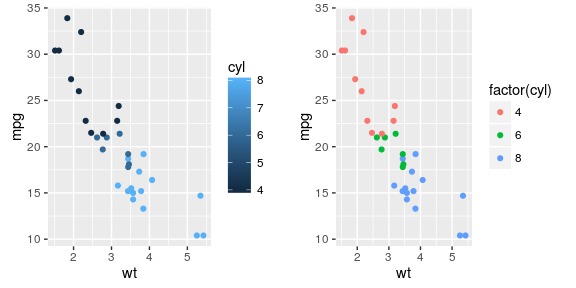
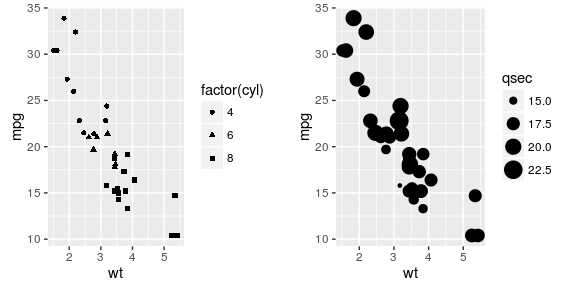
first try

diff --git a/ggplot_practice.md b/ggplot_practice.md
@@ -54,24 +54,12 @@ ggplot practice
 ![](ggplot_practice_files/figure-markdown_strict/unnamed-chunk-3-3.png)  
 
     library(gridExtra)
-    head(mtcars,3)
-
-    ##                mpg cyl disp  hp drat    wt  qsec vs am gear carb
-    ## Mazda RX4     21.0   6  160 110 3.90 2.620 16.46  0  1    4    4
-    ## Mazda RX4 Wag 21.0   6  160 110 3.90 2.875 17.02  0  1    4    4
-    ## Datsun 710    22.8   4  108  93 3.85 2.320 18.61  1  1    4    1
-
-    p1=qplot(wt,mpg,data=mtcars,colour=cyl)
-    levels(mtcars$cyl)
-
-    ## NULL
-
-    p2=qplot(wt,mpg,data=mtcars,colour=factor(cyl))
+    p1=qplot(wt, mpg, data=mtcars, shape=factor(cyl))
+    p2=qplot(wt, mpg, data=mtcars, size=qsec)
     grid.arrange(p1,p2,ncol=2)
 
 ![](ggplot_practice_files/figure-markdown_strict/unnamed-chunk-4-1.png)  
 
-    library(gridExtra)
     head(mtcars,3)
 
     ##                mpg cyl disp  hp drat    wt  qsec vs am gear carb
@@ -89,20 +77,38 @@ ggplot practice
 
 ![](ggplot_practice_files/figure-markdown_strict/unnamed-chunk-5-1.png)  
 
-    library(gridExtra)
-    head(mtcars,3)
+    p1=qplot(wt, mpg, data=mtcars, size=qsec, color=factor(carb))
+    p2=qplot(wt, mpg, data=mtcars, size=qsec, color=factor(carb), shape=I(1))
+    p3=qplot(wt, mpg, data=mtcars, size=qsec, shape=factor(cyl), geom="point")
+    p4=qplot(wt, mpg, data=mtcars, size=factor(cyl), geom="point")
+    grid.arrange(p1,p2,ncol=2)
 
-    ##                mpg cyl disp  hp drat    wt  qsec vs am gear carb
-    ## Mazda RX4     21.0   6  160 110 3.90 2.620 16.46  0  1    4    4
-    ## Mazda RX4 Wag 21.0   6  160 110 3.90 2.875 17.02  0  1    4    4
-    ## Datsun 710    22.8   4  108  93 3.85 2.320 18.61  1  1    4    1
+![](ggplot_practice_files/figure-markdown_strict/unnamed-chunk-6-1.png)  
 
-    p1=qplot(wt,mpg,data=mtcars,colour=cyl)
-    levels(mtcars$cyl)
+    grid.arrange(p3,p4,ncol=4)
 
-    ## NULL
+![](ggplot_practice_files/figure-markdown_strict/unnamed-chunk-6-2.png)  
 
-    p2=qplot(wt,mpg,data=mtcars,colour=factor(cyl))
-    grid.arrange(p1,p2,nrow=2)
+    p1=qplot(factor(cyl), data=mtcars, geom="bar")
+    p2=qplot(factor(cyl), data=mtcars, geom="bar") + coord_flip()
+    grid.arrange(p1,p2,ncol=2)
 
-![](ggplot_practice_files/figure-markdown_strict/unnamed-chunk-6-1.png)
+![](ggplot_practice_files/figure-markdown_strict/unnamed-chunk-7-1.png)  
+
+    # difference between fill/color bars
+    qplot(factor(cyl), data=mtcars, geom="bar", fill=factor(cyl))
+
+![](ggplot_practice_files/figure-markdown_strict/unnamed-chunk-8-1.png)  
+
+    qplot(factor(cyl), data=mtcars, geom="bar", colour=factor(cyl))
+
+![](ggplot_practice_files/figure-markdown_strict/unnamed-chunk-8-2.png)  
+
+    grid.arrange(p1,p2,ncol=2)
+
+![](ggplot_practice_files/figure-markdown_strict/unnamed-chunk-8-3.png)  
+
+    # fill by variable
+    qplot(factor(cyl), data=mtcars, geom="bar", fill=factor(gear))
+
+![](ggplot_practice_files/figure-markdown_strict/unnamed-chunk-8-4.png)
